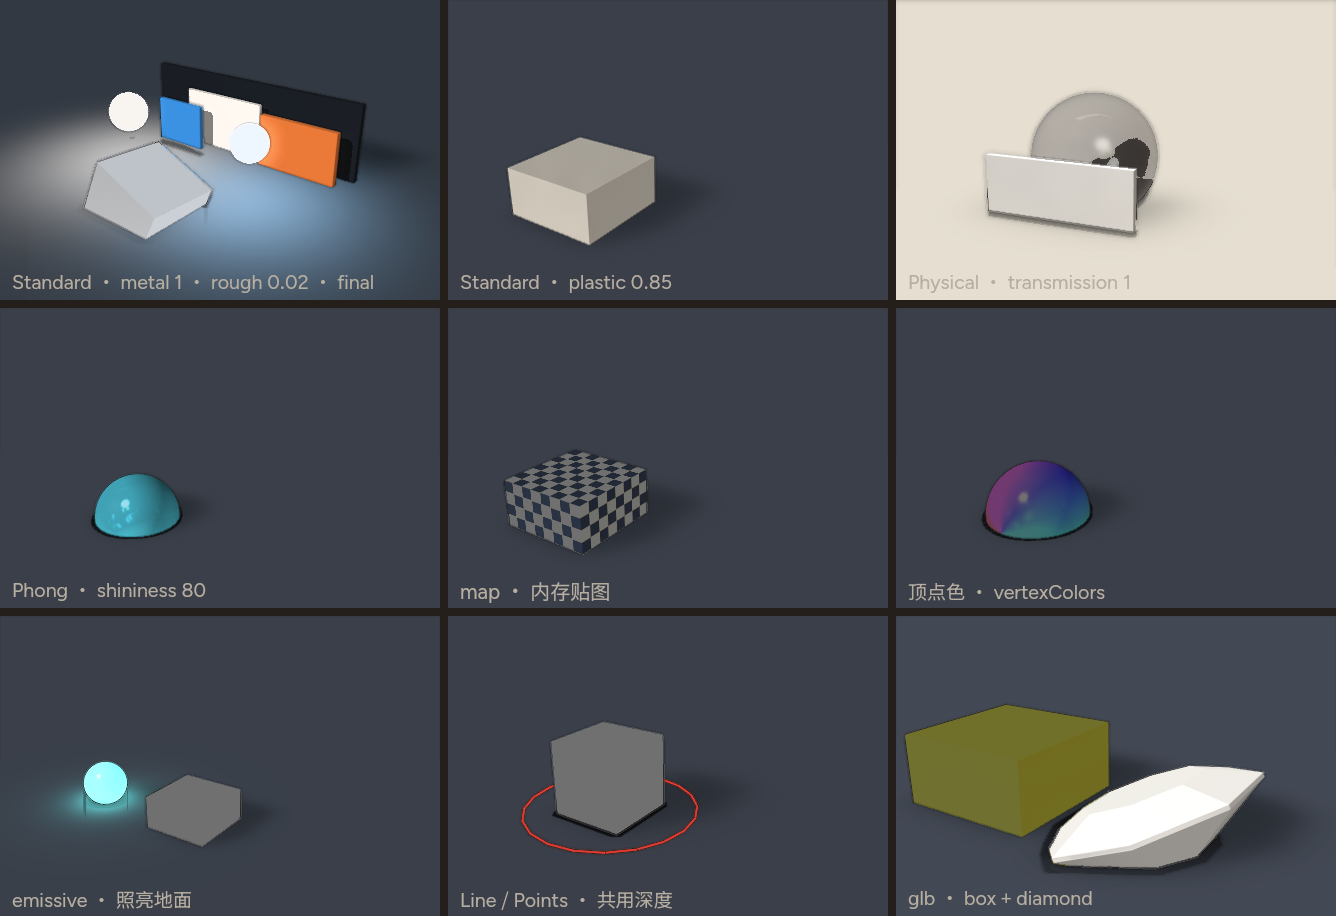
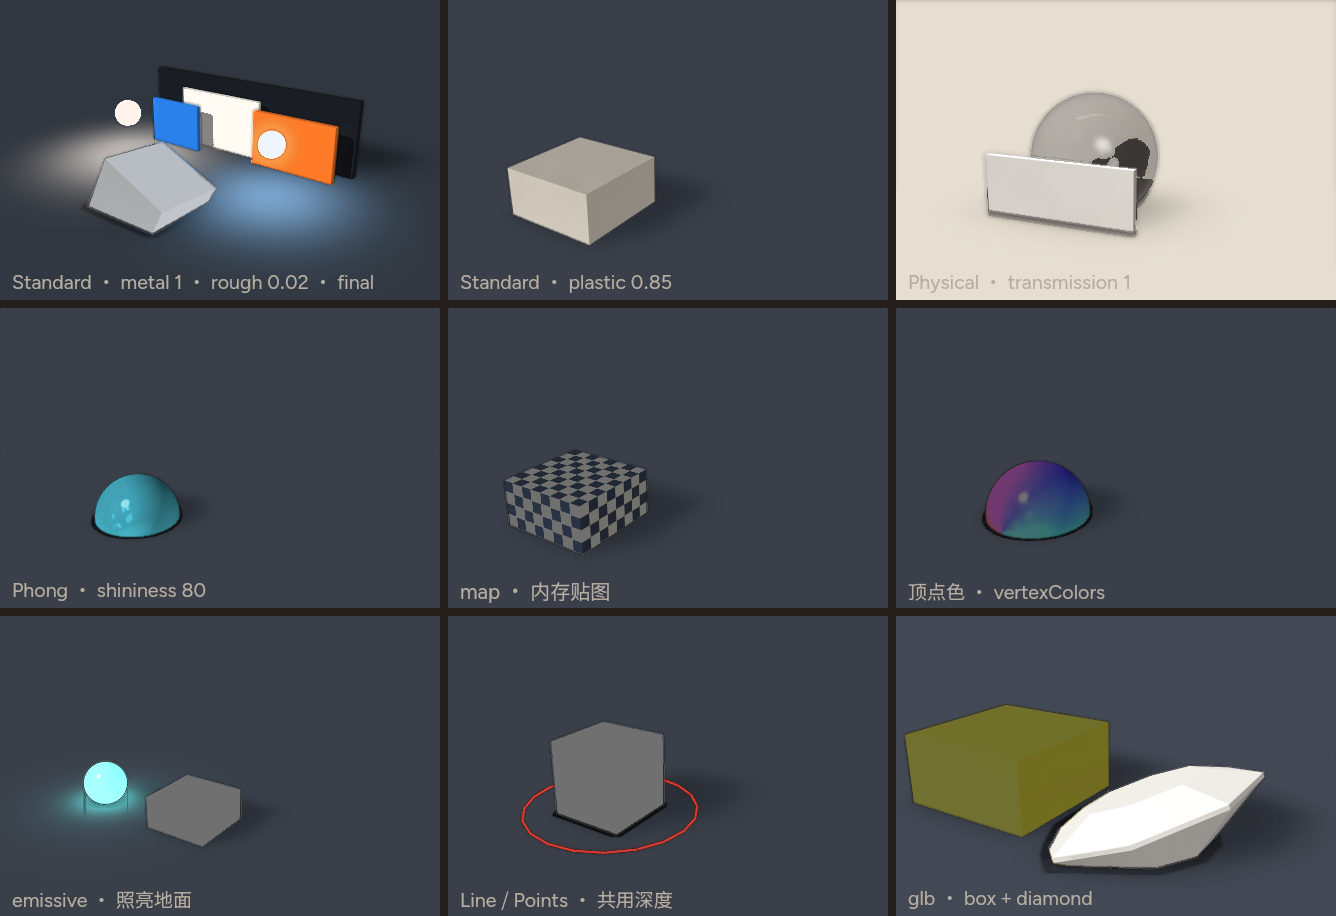
tip mirrormat: plastic mint glass-cell box + Standard polish
Stop B reading glass+stripes as a shattered box: left subject is opaque
mint plastic. Dim Standard lamps and heat bounce cards for mirror read.

Changed region(s): [[0.0, 0.0917, 0.3069, 0.3362]]

diff --git a/docs/gallery/3d/model/standard-metal.tsx b/docs/gallery/3d/model/standard-metal.tsx
@@ -2,39 +2,37 @@
 import { layer } from 'flexlayer'
 import * as THREE from 'three'
 
-// QUALITY-6 §E.2 cell 1: MeshStandardMaterial, metalness 1.
-// SPEC maps metalness ≥ 0.5 to `metal`. Keep Standard (not Physical).
-// Metfix: boxyaw A model 6.8 / B flat-white Standard — cooler mid silver,
-// less lamp blow, mild yaw so bounce cards read in the mirror.
+// Mirrormat: glassread B model 6.5 — Standard metal read flat matte grey under
+// a blown white pool. Dim lamps, hotter bounce cards, tighter roughness.
 const mesh = new THREE.Mesh(
   new THREE.BoxGeometry(1, 1, 1),
-  new THREE.MeshStandardMaterial({ color: '#d4dce6', metalness: 1, roughness: 0.015 }),
+  new THREE.MeshStandardMaterial({ color: '#c8d0da', metalness: 1, roughness: 0.01 }),
 )
-mesh.rotation.y = 0.40
-mesh.rotation.x = -0.08
+mesh.rotation.y = 0.42
+mesh.rotation.x = -0.1
 
 export default layer.create(
   <layer width={440} height={300} background="#241f1b">
     <layer
       width={440}
       height={300}
-      camera="fov 34, orbit 38 24, distance 850, at 220 198 0"
+      camera="fov 34, orbit 36 22, distance 860, at 220 198 0"
       light="world"
       quality="final"
     >
-      <light type="hemisphere" intensity="0.38" color="#e8eef4" ground-color="#2e343c" />
-      <light type="directional" intensity="0.82" color="#ffffff" x="-180" y="-420" z="520" target="0 0 0" />
-      <light type="point" intensity="2.0" color="#ffffff" x="300" y="40" z="220" distance="700" />
-      <light type="point" intensity="1.8" color="#8ec8ff" x="-120" y="60" z="180" distance="500" />
-      <ground y={220} rotateX={90} fill="#2a3038" shadow-blur={52} shadow-opacity={0.34} />
-      <sphere cx="95" cy="130" r="32" z="90" fill="#efe8e0" material="lamp" />
-      <sphere cx="340" cy="125" r="28" z="85" fill="#5aa8ff" material="lamp" />
+      <light type="hemisphere" intensity="0.28" color="#d8e0e8" ground-color="#2a3038" />
+      <light type="directional" intensity="0.65" color="#ffffff" x="-200" y="-400" z="480" target="0 0 0" />
+      <light type="point" intensity="1.2" color="#ffe8d0" x="280" y="50" z="200" distance="600" />
+      <light type="point" intensity="1.4" color="#6ab0ff" x="-100" y="70" z="160" distance="450" />
+      <ground y={220} rotateX={90} fill="#2a3038" shadow-blur={56} shadow-opacity={0.36} />
+      <sphere cx="70" cy="140" r="22" z="70" fill="#ffe8d8" material="lamp" />
+      <sphere cx="360" cy="135" r="20" z="65" fill="#4a98ff" material="lamp" />
       <layer x={28} y={220} width={400} height={190} origin="200 0" rotateX={90} preserve-3d>
         <rect x="-10" y="-80" width="420" height="12" depth="260" fill="#1a1e24" />
-        <rect x="250" y="-45" width="140" height="12" depth="180" fill="#e87838" />
-        <rect x="30" y="-30" width="100" height="10" depth="160" fill="#3a90e0" />
-        <rect x="80" y="-55" width="160" height="8" depth="200" fill="#fff6ee" />
-        <model object={mesh} unit={118} x={200} y={188} material="finish metal, color #c8d2dc, roughness 0.015, metalness 1" />
+        <rect x="240" y="-40" width="150" height="12" depth="190" fill="#ff7a28" />
+        <rect x="20" y="-25" width="110" height="10" depth="170" fill="#2a80e8" />
+        <rect x="70" y="-55" width="170" height="8" depth="210" fill="#fff8f0" />
+        <model object={mesh} unit={116} x={200} y={188} material="finish metal, color #b8c4d0, roughness 0.01, metalness 1" />
       </layer>
     </layer>
     <layer x={12} y={272}>

diff --git a/scripts/gallery-3d.ts b/scripts/gallery-3d.ts
@@ -132,16 +132,17 @@ const FINISHES: Finish[] = [
     side: 'fill="#9aa3ab" material="brushed"',
   },
   {
-    // Glassread: hero left mint orb; soft-card stripes under id=sphere for SSIM.
+    // Mirrormat: glassread B materials 6.5 — glass left orb+stripes still read
+    // as a shattered box. Left is an opaque mint plastic box; id=sphere glass+SSIM.
     label: 'glass 0.06',
-    box: 'fill="#8ecabae8" material="glass 0.08"',
+    box: 'fill="#3a8a76" material="plastic 0.32"',
     sphere: 'fill="#d0ece4c8" material="glass 0.06"',
     side: 'fill="#e0a33a"',
     stripes: true,
   },
   {
     label: 'glass 0.72',
-    box: 'fill="#5a8078f0" material="glass 0.72"',
+    box: 'fill="#2a5a52" material="plastic 0.55"',
     sphere: 'fill="#a8c0b8e8" material="glass 0.72"',
     side: 'fill="#e0a33a"',
     stripes: true,
@@ -209,7 +210,7 @@ function cluster(finish: Finish): string {
   // retint slab. Non-glass cells keep the usual rect.
   const box = finish.stripes
     ? glassCell
-      ? `<sphere id="box" cx="80" cy="68" r="54" z="44" ${finish.box} />`
+      ? `<rect id="box" x="6" y="22" width="118" height="82" depth="72" rx="14" ${finish.box} />`
       : `<rect id="box" x="14" y="14" width="158" height="110" depth="98" rx="16" ${finish.box} />`
     : `<rect id="box" x="28" y="30" width="120" height="86" depth="72" rx="12" ${finish.box} />`
   // Gold accent sphere (not finish.side): metal cells used to paint two
